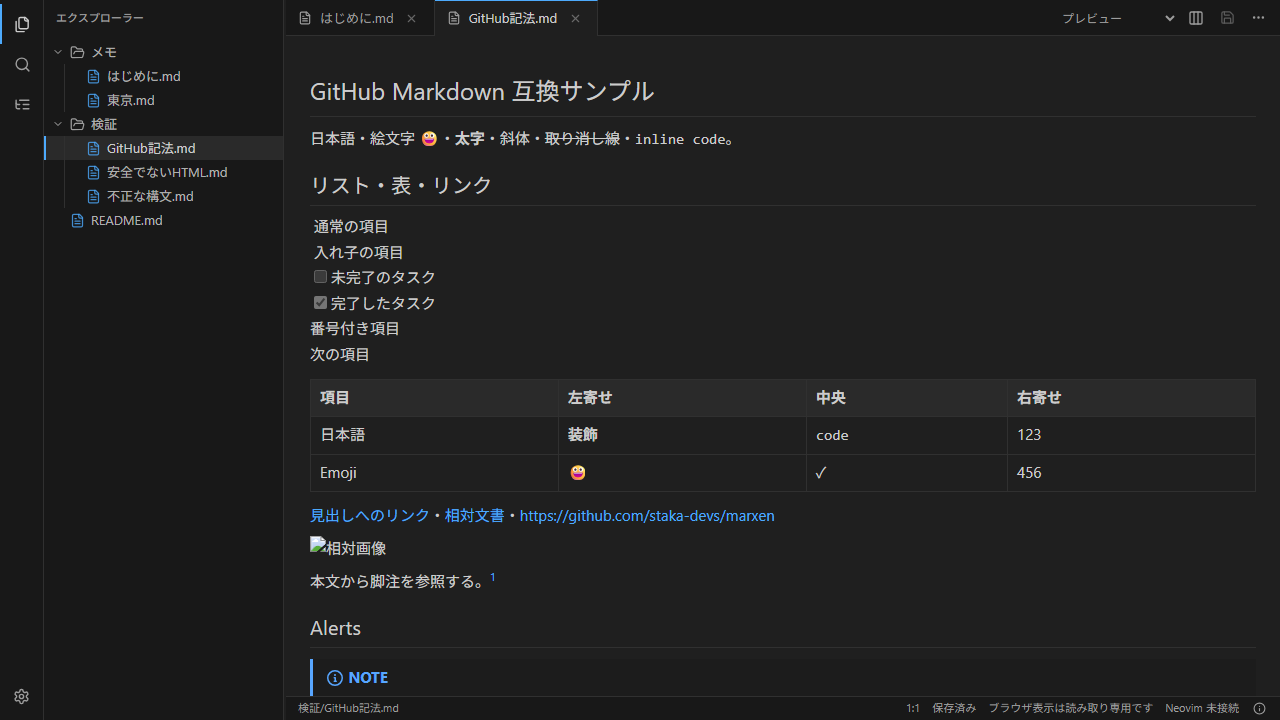
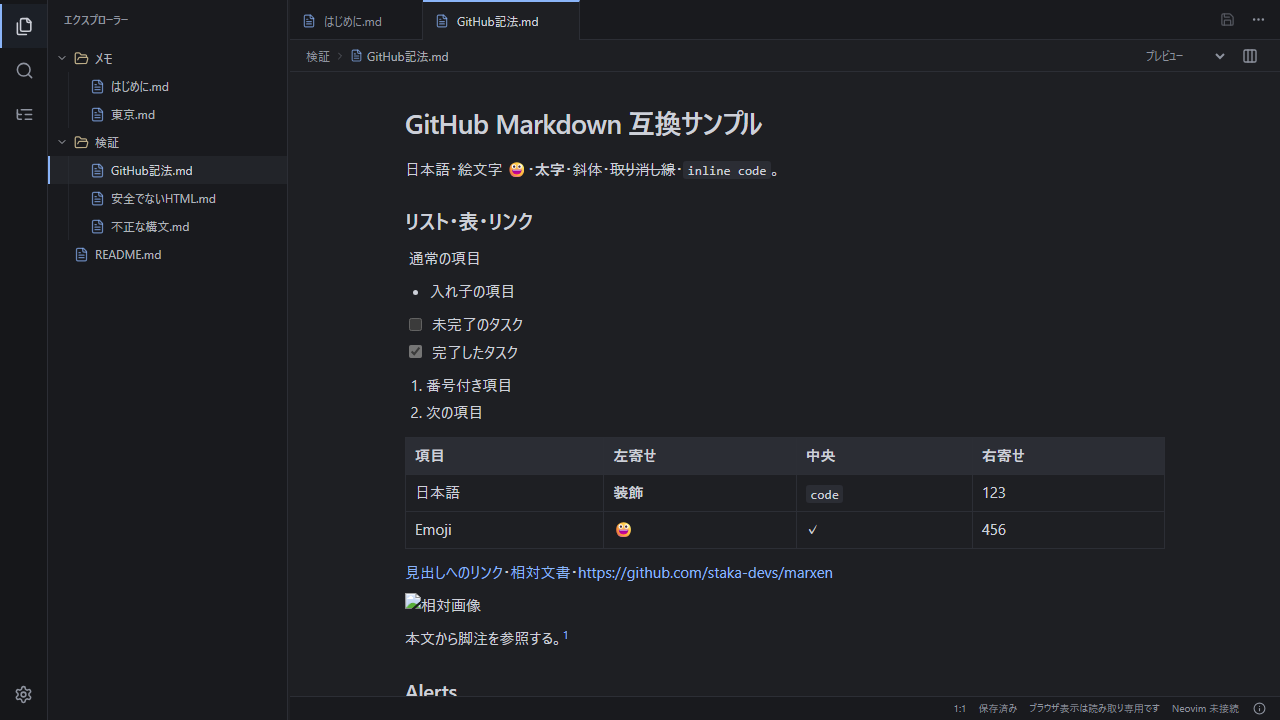
編集UIの実アプリ検証と配布結果を記録する

diff --git a/docs/reports/manual-ci.md b/docs/reports/manual-ci.md
@@ -1,41 +1,47 @@
 # CI 相当の手動検証
 
-検証日: 2026-10-10。配布対象の実装は `4e9ffcf`。[workflow](../../.github/workflows/ci.yml) のコマンドを手動実行し終了コードを確認した。GitHub Actions の成功とは区別する。
+検証日: 2026-10-10。最新 UI の実装は `25a7fee430d16ea4e437c81cfdcafcd5890d8689`。[workflow](../../.github/workflows/ci.yml) のコマンドを手動で確認し、GitHub Actions の成功と区別する。
 
-## Windows x64
+## Windows x64 の最新フロントエンドと配布
 
-Windows / MSVC、Node 22.23.2、npm 11.17、Rust 1.99.0、Neovim 0.11.5。並列度は Vitest 2 / Cargo 1。テスト・assertion・retry を削減していない。
+Node 22.23.2、npm 11.17、Rust 1.99.0、Neovim 0.11.5。Vitest threads / Playwright / Cargo は各 1 worker。テストの隔離と assertion を維持する。
 
 | コマンド | 結果 |
 | --- | --- |
-| `npm ci` | exit 0、脆弱性 0 |
-| `npm run bundle:neovim -- --target x86_64-pc-windows-msvc` | exit 0 |
-| `npm run verify:neovim -- --target x86_64-pc-windows-msvc` | exit 0、版・Markdown runtime・日本語・絵文字 |
-| `npm run contracts:check` / `ai-contracts:check` / `isolation-contracts:check` | 各 exit 0、生成契約と一致 |
+| `npm ci` | exit 0、脆弱性 0。同一 lockfile の `bcec6af` で実行 |
 | `npm run typecheck` | exit 0 |
-| `npm run architecture:check` | exit 0、205 ファイル、1633/1633 操作に文書、違反 0 |
-| `npm test -- --maxWorkers=2` | exit 0、40 ファイル / 243 件 |
+| `npm run architecture:check` | exit 0、209 ファイル、1646/1646 操作に文書、違反 0 |
+| `npm test -- --pool=threads --maxWorkers=1` | exit 0、43 ファイル / 255 件 |
 | `npm run test:bundling` | exit 0、Node 19 件 |
 | `npm run build` | exit 0 |
+| `npm run test:e2e:product -- --workers=1` | exit 0、12 件 |
+| `npm run test:e2e:live -- --workers=1` | exit 0、17 件 |
+| `npm run tauri -- build --config src-tauri/tauri.bundle.conf.json --bundles nsis` | exit 0、未署名 Windows NSIS |
+
+配布物と実 WebView の画面・範囲編集・Undo は [UI 検証](issue-20-ui.md)。
+
+## 変更していない Rust・契約・Neovim の検証
+
+次の結果は前回の配布ソース `4e9ffcf` に対応する。最新 UI ソースとの `src-tauri/` の差はなく、この表を今回の再実行としない。
+
+| コマンド | 結果 |
+| --- | --- |
+| `npm run bundle:neovim -- --target x86_64-pc-windows-msvc` | exit 0 |
+| `npm run verify:neovim -- --target x86_64-pc-windows-msvc` | exit 0、版・Markdown runtime・日本語・絵文字 |
+| `npm run contracts:check` / `ai-contracts:check` / `isolation-contracts:check` | 各 exit 0 |
 | `cargo fmt --manifest-path src-tauri/Cargo.toml -- --check` | exit 0 |
 | `cargo test --manifest-path src-tauri/Cargo.toml --locked --features dev-tools -j1` | exit 0、165 件 |
 | `cargo check --manifest-path src-tauri/Cargo.toml --locked -j1` | exit 0 |
 | `cargo clippy --manifest-path src-tauri/Cargo.toml --locked --features dev-tools -j1 --all-targets -- -D warnings` | exit 0 |
-| `RUSTDOCFLAGS="-D warnings" cargo doc --manifest-path src-tauri/Cargo.toml --locked --features dev-tools --no-deps --document-private-items` | exit 0、非公開操作・bin・build の Rustdoc も検査 |
+| `RUSTDOCFLAGS="-D warnings" cargo doc --manifest-path src-tauri/Cargo.toml --locked --features dev-tools --no-deps --document-private-items` | exit 0、非公開操作・bin・build を含む |
 | `npx playwright install --with-deps chromium` | exit 0 |
-| `npm run test:e2e` | exit 0、製品 12 件 / ライブ 17 件 |
-| `npm run tauri -- build --config src-tauri/tauri.bundle.conf.json --bundles nsis` | exit 0、未署名 NSIS |
 
-Rust 回帰・Clippy のソース `2bb2f3e` と配布ソース `4e9ffcf` は Rust の実装トークンが一致する。差は Rustdoc の表記だけ。フロントエンド単体のソース `9b4cea8` と `4e9ffcf` の `src/` の差は末尾空行だけ。Rustdoc、E2E、配布は最終実装で確認した。
+Rust 回帰・Clippy のソース `2bb2f3e` と `4e9ffcf` は実装トークンが同一。差は Rustdoc だけで、Rustdoc は `4e9ffcf` で検査した。165 件には実 credentials / ACP の opt-in 各一件を含み、既定の早期 return を実認証成功に含めない。Word の画像入り貼付は [統合検証](issue-9-integration.md) の配布ソースで確認している。
 
-165 件に含まれる実 credentials / ACP の opt-in テスト各一件は、既定では早期 return する。外部 provider の実認証・生成成功に含めない。実アプリ・Word・画像資源の結果は [UI](issue-17-ui.md) / [統合検証](issue-9-integration.md) を参照する。
+## Linux、macOS、GitHub Actions
 
-## Linux と macOS
+[Linux 手動検証](issue-16-linux-manual-ci.md) の frontend は型・依存・文書・243 件・Node 19 件・build・E2E 29 件が成功した。これは最新 UI の Linux 再実行ではない。Linux native は開発依存不足、macOS 手動検証は未実施。macOS / Linux の実 WebView / IME の確認へ置き換えない。
 
-[Linux 手動検証](issue-16-linux-manual-ci.md) に成功・依存不足・ソースの区別を記載する。Linux frontend は型・依存・文書・243 件・Node 19 件・build・E2E 29 件が成功。Linux native は開発依存不足で未完了。macOS の手動検証は未実施。ブラウザや headless Neovim の成功を各 OS の実 WebView / IME に置き換えない。
+`4e9ffcf` の [Actions](https://github.com/staka-devs/marxen/actions/runs/38027095455) は四 target とも step 数 0。注釈は支払い失敗または利用上限を示す。[最新 PR checks](https://github.com/staka-devs/marxen/pull/10/checks) と手動検証を区別する。
 
-## GitHub Actions と設計
-
-`4e9ffcf` の [Actions](https://github.com/staka-devs/marxen/actions/runs/38027095455) は四 target とも step 数 0。Windows check の注釈は支払い失敗または利用上限を示し、テストと package は実行されていない。最新状態は [PR checks](https://github.com/staka-devs/marxen/pull/10/checks) を参照する。
-
-五層、SOLID・YAGNI・DRY、文書・保存・取消・revision の契約を [TypeScript](issue-14-frontend-architecture.md) / [Rust](issue-15-backend-architecture.md) でレビューする。依存方向と文書の違反は 0。原則の全面的な証明と静的検査の成功は区別する。
+五層・SOLID・YAGNI・DRY は [TypeScript](issue-14-frontend-architecture.md)、[Rust](issue-15-backend-architecture.md)、[最新 UI](issue-20-ui.md) でレビューする。依存と文書の静的検査は成功し、原則の全面的な証明とは区別する。

diff --git a/docs/reports/issue-20-ui.md b/docs/reports/issue-20-ui.md
@@ -1,0 +1,62 @@
+# 編集画面・検索・チャットの UI 検証
+
+検証日: 2026-10-10。実装ソース: `25a7fee430d16ea4e437c81cfdcafcd5890d8689`。Windows x64 / Tauri / WebView2 / 同梱 Neovim。[Issue #20](https://github.com/staka-devs/marxen/issues/20)。
+
+## 画面と操作
+
+タブとファイル操作、ファイルの場所と表示モードを二行に整理した。細いアクティビティバー、種別アイコンと階層線、折り畳めるルートフォルダー、本文の幅・見出し・行間、青いカーソルと編集中の行の強調を使う。非選択のブロック間だけを詰め、文書と UTF-16 の位置を変えない。
+
+検索は矢印・Enter・Esc・フォーカス復帰を共通化した。デスクトップには実際の対応ファイルだけを表示する。ファイル検索・ツリー・タブの選択後は編集欄にフォーカスを戻し、モーダルからは奪わない。設定はカテゴリ別に表示し、検索は全カテゴリを対象にする。チャットの発言・入力・接続設定、インラインの対象と提案を整理した。入力例は自動送信しない。
+
+![ライブプレビュー](issue-20-ui/editor-dark.png)
+
+[ライト](issue-20-ui/editor-light.png) · [分割](issue-20-ui/split.png) · [設定](issue-20-ui/settings-editor.png) · [AI 設定](issue-20-ui/settings-ai.png) · [Agent](issue-20-ui/agent-chat.png) · [インライン](issue-20-ui/inline-chat.png) · [提案](issue-20-ui/inline-review.png) · [狭い編集画面](issue-20-ui/editor-narrow.png) · [狭い検索画面](issue-20-ui/quick-open-narrow.png) · [狭い設定画面](issue-20-ui/settings-narrow.png)
+
+## 実アプリの確認
+
+NSIS を展開し、そのアプリと同梱 Neovim を使う実 WebView の画面を目視で確認した。1180 × 800、実ウィンドウを縮めた 719 × 595（CSS px、Windows 125%）で確認。狭い画面ではファイル選択でサイドバーが閉じ、検索と設定は画面内に収まる。文書全体の横方向のはみ出しはない。
+
+| 操作 | 結果 |
+| --- | --- |
+| ダーク・ライト、見出し、リスト、Alert、表、コード | 文字組みを確認。日本語は実際に Yu Gothic UI を使用 |
+| 分割 | 独立した二領域、各 442.5px、幅を変更できる区切り |
+| 検索・設定 | 実ファイルのみ、矢印選択、Esc、編集フォーカスの復帰、中心配置、狭い画面に収まる |
+| Agent | ローカル ACP fixture で質問・回答、会話の作成・切り替え。本文不変 |
+| インライン | 見出しを対象に入力フォーカス、エディター内に収まる位置 |
+| 提案・承認・Undo | 提案時は本文不変。見出しだけを承認、一回の UI Undo で元の本文・保存済みに復帰 |
+
+操作は実 WebView の DOM / キーイベントによる。OS の物理キーや日本語 IME の確認と区別する。AI はローカル fixture で、外部アカウントへ接続していない。検証用文書に未保存変更を残さない。
+
+## 手動チェックと設計
+
+| コマンド | 結果 |
+| --- | --- |
+| `npm ci` | 成功、脆弱性 0。同一 lockfile の `bcec6af` で確認 |
+| `npm run typecheck` | 成功 |
+| `npm run architecture:check` | 209 ファイル、1646/1646 操作に文書、違反 0 |
+| `npm test -- --pool=threads --maxWorkers=1` | 43 ファイル / 255 件成功 |
+| `npm run test:bundling` | Node 19 件成功 |
+| `npm run build` | 成功 |
+| `npm run test:e2e:product -- --workers=1` | 12 件成功 |
+| `npm run test:e2e:live -- --workers=1` | 17 件成功 |
+| `npm run tauri -- build --config src-tauri/tauri.bundle.conf.json --bundles nsis` | 成功 |
+
+表示責務は presentation、検索と接続先の表示は小さい共通実装にする。編集・保存・AI の port と revision 契約、五層の依存境界を維持する。表示用の独立した保存・AI 通信は追加しない。設定値は実際のエディターへ反映する。静的検査と、SOLID・YAGNI・DRY の全面的な証明を区別する。
+
+Rust は `4e9ffcf` から変更なし。165 件、fmt、check、Clippy、private Rustdoc、三種の生成契約の前回成功と、フロントエンドの今回の再実行を区別する。[手動 CI](manual-ci.md) に範囲を記載する。
+
+## Windows 配布物
+
+`.local/releases/windows/Marxen_0.1.0_x64-setup.exe`、未署名 NSIS。インストールせず展開して確認。
+
+| 項目 | 値 |
+| --- | --- |
+| サイズ | 15811150 bytes |
[2 lines of base64/hex data omitted]
+| 同梱 Neovim | 2067 ファイル、全ファイル集合・SHA-256 が配布元と一致 |
+| 開発用バイナリー | 契約出力・ACP / 隔離 mock を含まない |
+
+アプリは build 出力と NSIS 識別子の三 bytes を除いて一致する。実プロセスの親子関係から展開先の Neovim を使うことを確認した。
+
+Windows の実 IME、OS キー注入、外部 AI の実認証・生成、メールへの画像入り貼付、macOS / Linux の実 WebView / IME、NSIS の実インストール・アンインストールと署名は含めない。Word の画像入り貼付と Rust の検証対象は [統合検証](issue-9-integration.md) を参照する。

diff --git a/docs/adr/ADR-0105-ライブプレビューの文字組みと検索操作の統一.md b/docs/adr/ADR-0105-ライブプレビューの文字組みと検索操作の統一.md
@@ -1,0 +1,27 @@
+# ライブプレビューの文字組みと検索操作の統一
+
+- 状態: 採用
+- 日付: 2026-10-10
+- 関連: [Issue #20](https://github.com/staka-devs/marxen/issues/20)
+
+## 背景
+
+ライブプレビューの編集中の見出しが通常のコード文字になり、描画ブロック間にも本文と同じ高さの空行が残るため、文字の階層と余白が安定しない。ファイルとコマンドの検索には共通の選択・取消・フォーカス復帰が必要になる。
+
+## 決定
+
+ライブプレビューの本文と編集中の見出しには同じ本文フォントと見出しの大きさを使い、編集対象の Markdown 記号とカーソルは表示する。コードは等幅のままにする。非選択のブロック間の空行だけを小さく表示し、カーソルのある空行とコード内の空行は保持する。表示は CodeMirror の decoration で行い、文書と UTF-16 オフセットを変更しない。
+
+タブにはファイル操作、下の行にはファイルの場所と表示モードを置く。本文は最大 760px の幅に揃え、狭い画面ではサイドバーを重ねて開き、ファイルの選択後に閉じる。
+
+ファイル検索とコマンド検索は presentation の小さい共有 picker を使う。矢印で選択、Enter で実行、Esc と背景クリックで閉じる。閉じた時に呼び出し元へフォーカスを戻し、次に開く操作画面が先にフォーカスを取った場合は奪わない。検索を開き直す時は入力をリセットする。ファイルとタブの選択後は、確定した編集領域へフォーカスを戻す。要求は presentation の表示状態として渡し、設定などのモーダルからはフォーカスを奪わない。デスクトップの候補は開いている文書と対応する実ファイルに限定し、ブラウザーのデモ用ファイルは含めない。
+
+設定はカテゴリごとに開き、検索だけは全カテゴリを対象にする。チャットの入力例は入力欄に入れるだけで、自動送信しない。接続先の名前と接続検査結果を区別し、未検査を接続成功と表示しない。
+
+## 選択肢と制約
+
+本文を再シリアライズする方式は revision と範囲編集の契約を壊すため使わない。表示用の文字組みと検索操作だけを共通化し、文書・AI 通信・保存の port と五層の依存境界は維持する。文字サイズや行間の既存設定は引き継ぐ。
+
+## 確認方法
+
+見出しを移動しても本文とカーソルのオフセットが変わらないこと、コード内の `#` と空行を見出しやブロック間の余白として扱わないこと、検索の選択・取消・フォーカス復帰、入力例が自動送信されないことを操作テストで確認する。ダーク・ライトと狭いウィンドウは実 WebView の描画で確認する。OS の物理キー・IME は別の検証とする。

diff --git a/docs/implementation.md b/docs/implementation.md
@@ -18,6 +18,7 @@ Rust / Tauri v2、React / TypeScript / Vite / Tailwind / shadcn/ui、CodeMirror 
 | ファイル一覧・画像操作・カーソル・設定 (#12) | Codex | 保存・UI |
 | インラインチャット・Agent 会話履歴 (#13) | OpenCode（Codex がレビュー・統合） | AI・隔離・UI |
 | 編集画面・チャットの UI 整理 (#17) | Codex / OpenCode | UI・チャット |
+| 文字組み・ファイル検索・チャット・設定の再設計 (#20) | Codex / OpenCode | UI・チャット |
 | Rust の五層分離・port・メソッド文書 (#18) | Codex | 文書・保存・AI・隔離 |
 | TypeScript の五層分離・Shell 責務・メソッド文書 (#19) | OpenCode（Codex がレビュー・統合） | 編集・チャット・UI |
 

diff --git a/docs/reports/issue-9-integration.md b/docs/reports/issue-9-integration.md
@@ -20,7 +20,7 @@
 
 ## Windows 配布物
 
-未署名 NSIS `Marxen_0.1.0_x64-setup.exe` を生成し、インストールせず展開して確認した。
+Word と Rust を確認したこの配布物は `.local/releases/windows/archive/Marxen_0.1.0_x64-setup-4e9ffcf.exe` に保存する。未署名 NSIS をインストールせず展開して確認した。最新 UI の配布物・画面・検証は [Issue #20 の検証](issue-20-ui.md) を参照する。
 
 | 項目 | 値 |
 | --- | --- |
